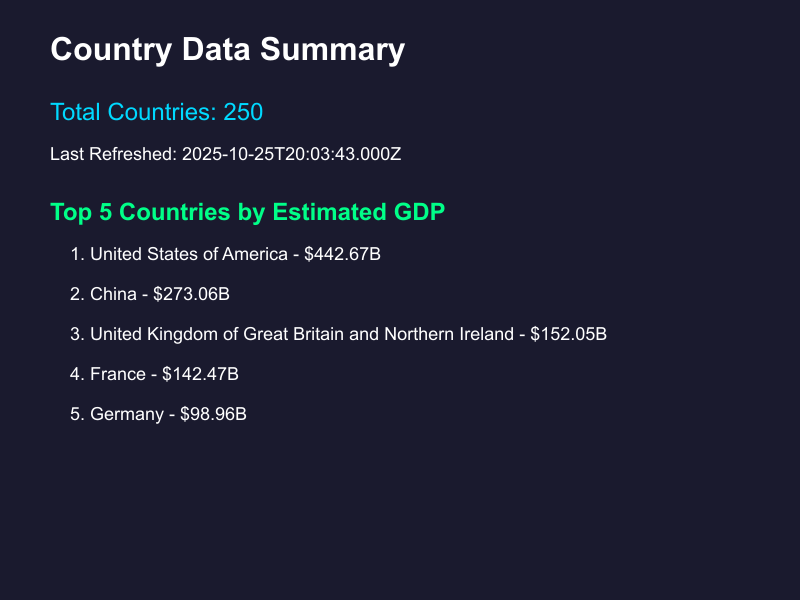
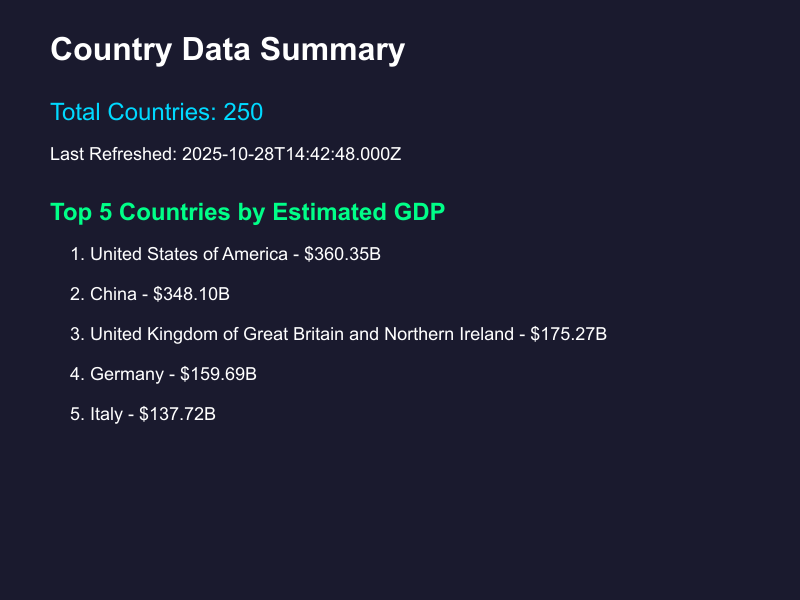
used aiven mysql instead

diff --git a/server.js b/server.js
@@ -15,9 +15,8 @@ const pool = mysql.createPool({
   user: process.env.DB_USER || "root",
   password: process.env.DB_PASSWORD || "",
   database: process.env.DB_NAME || "countries_db",
-  ssl: {
-    rejectUnauthorized: true,
-  },
+  ssl: { ca: process.env.DB_CERT.replace(/\\n/g, "\n") },
+  port: process.env.DB_PORT || 3306,
   waitForConnections: true,
   connectionLimit: 10,
   queueLimit: 0,
